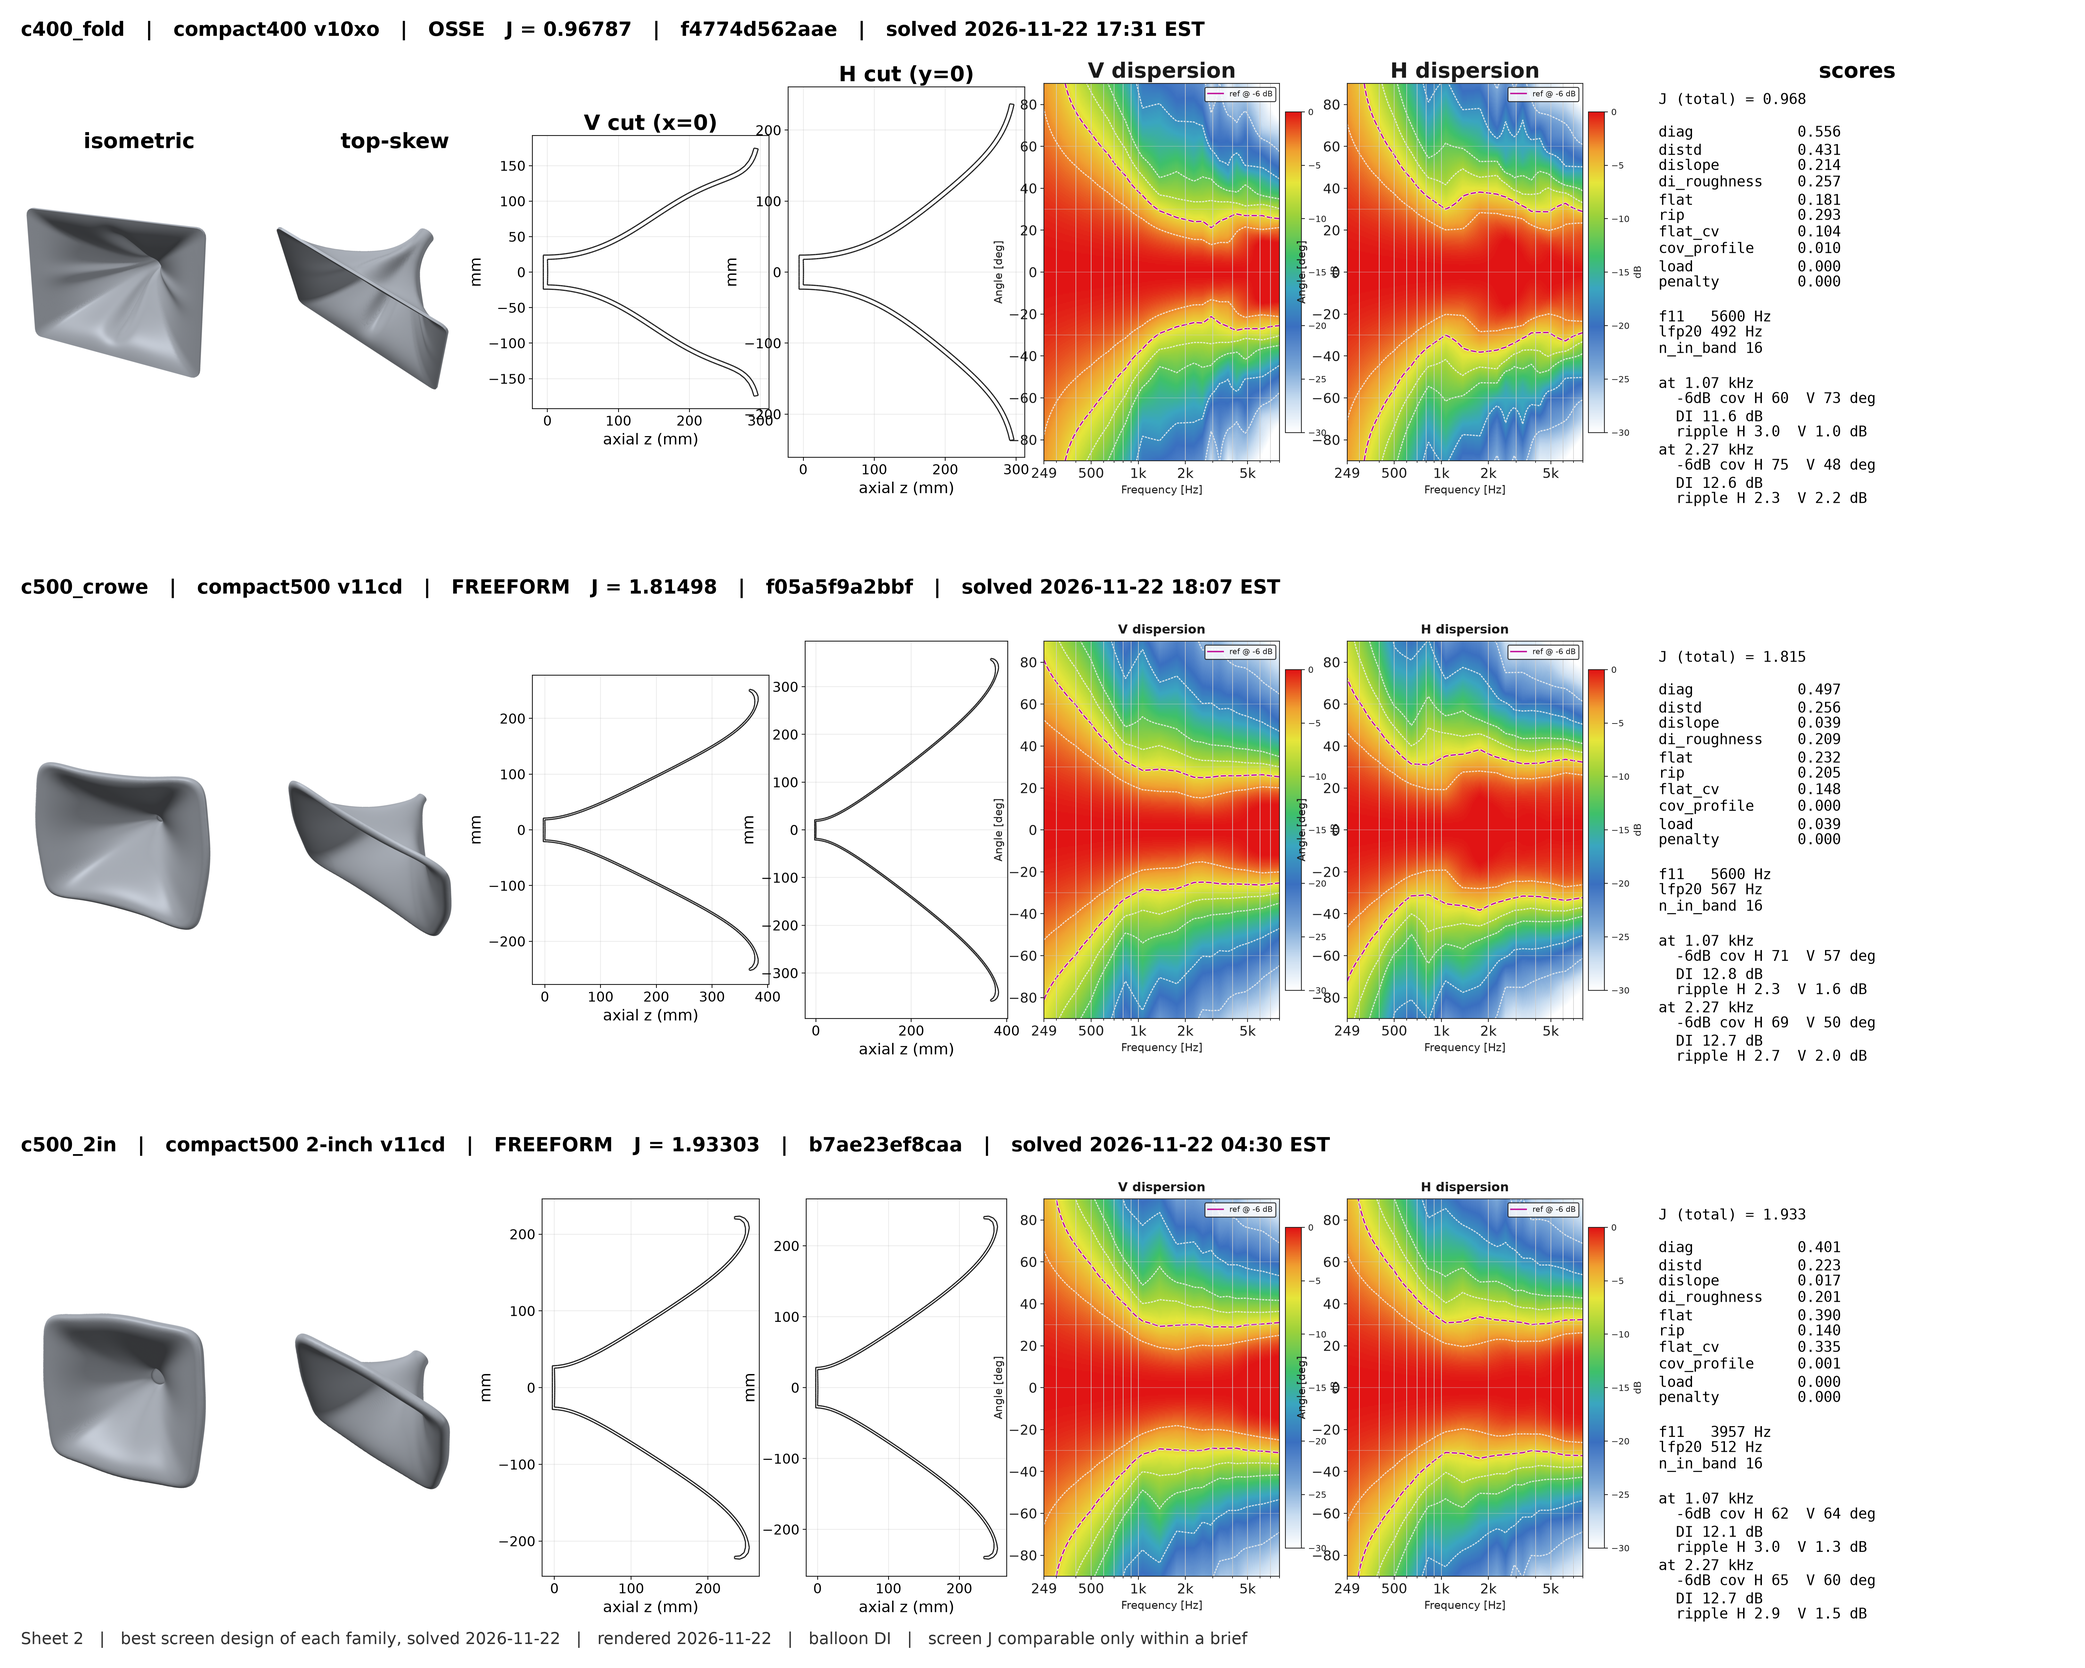
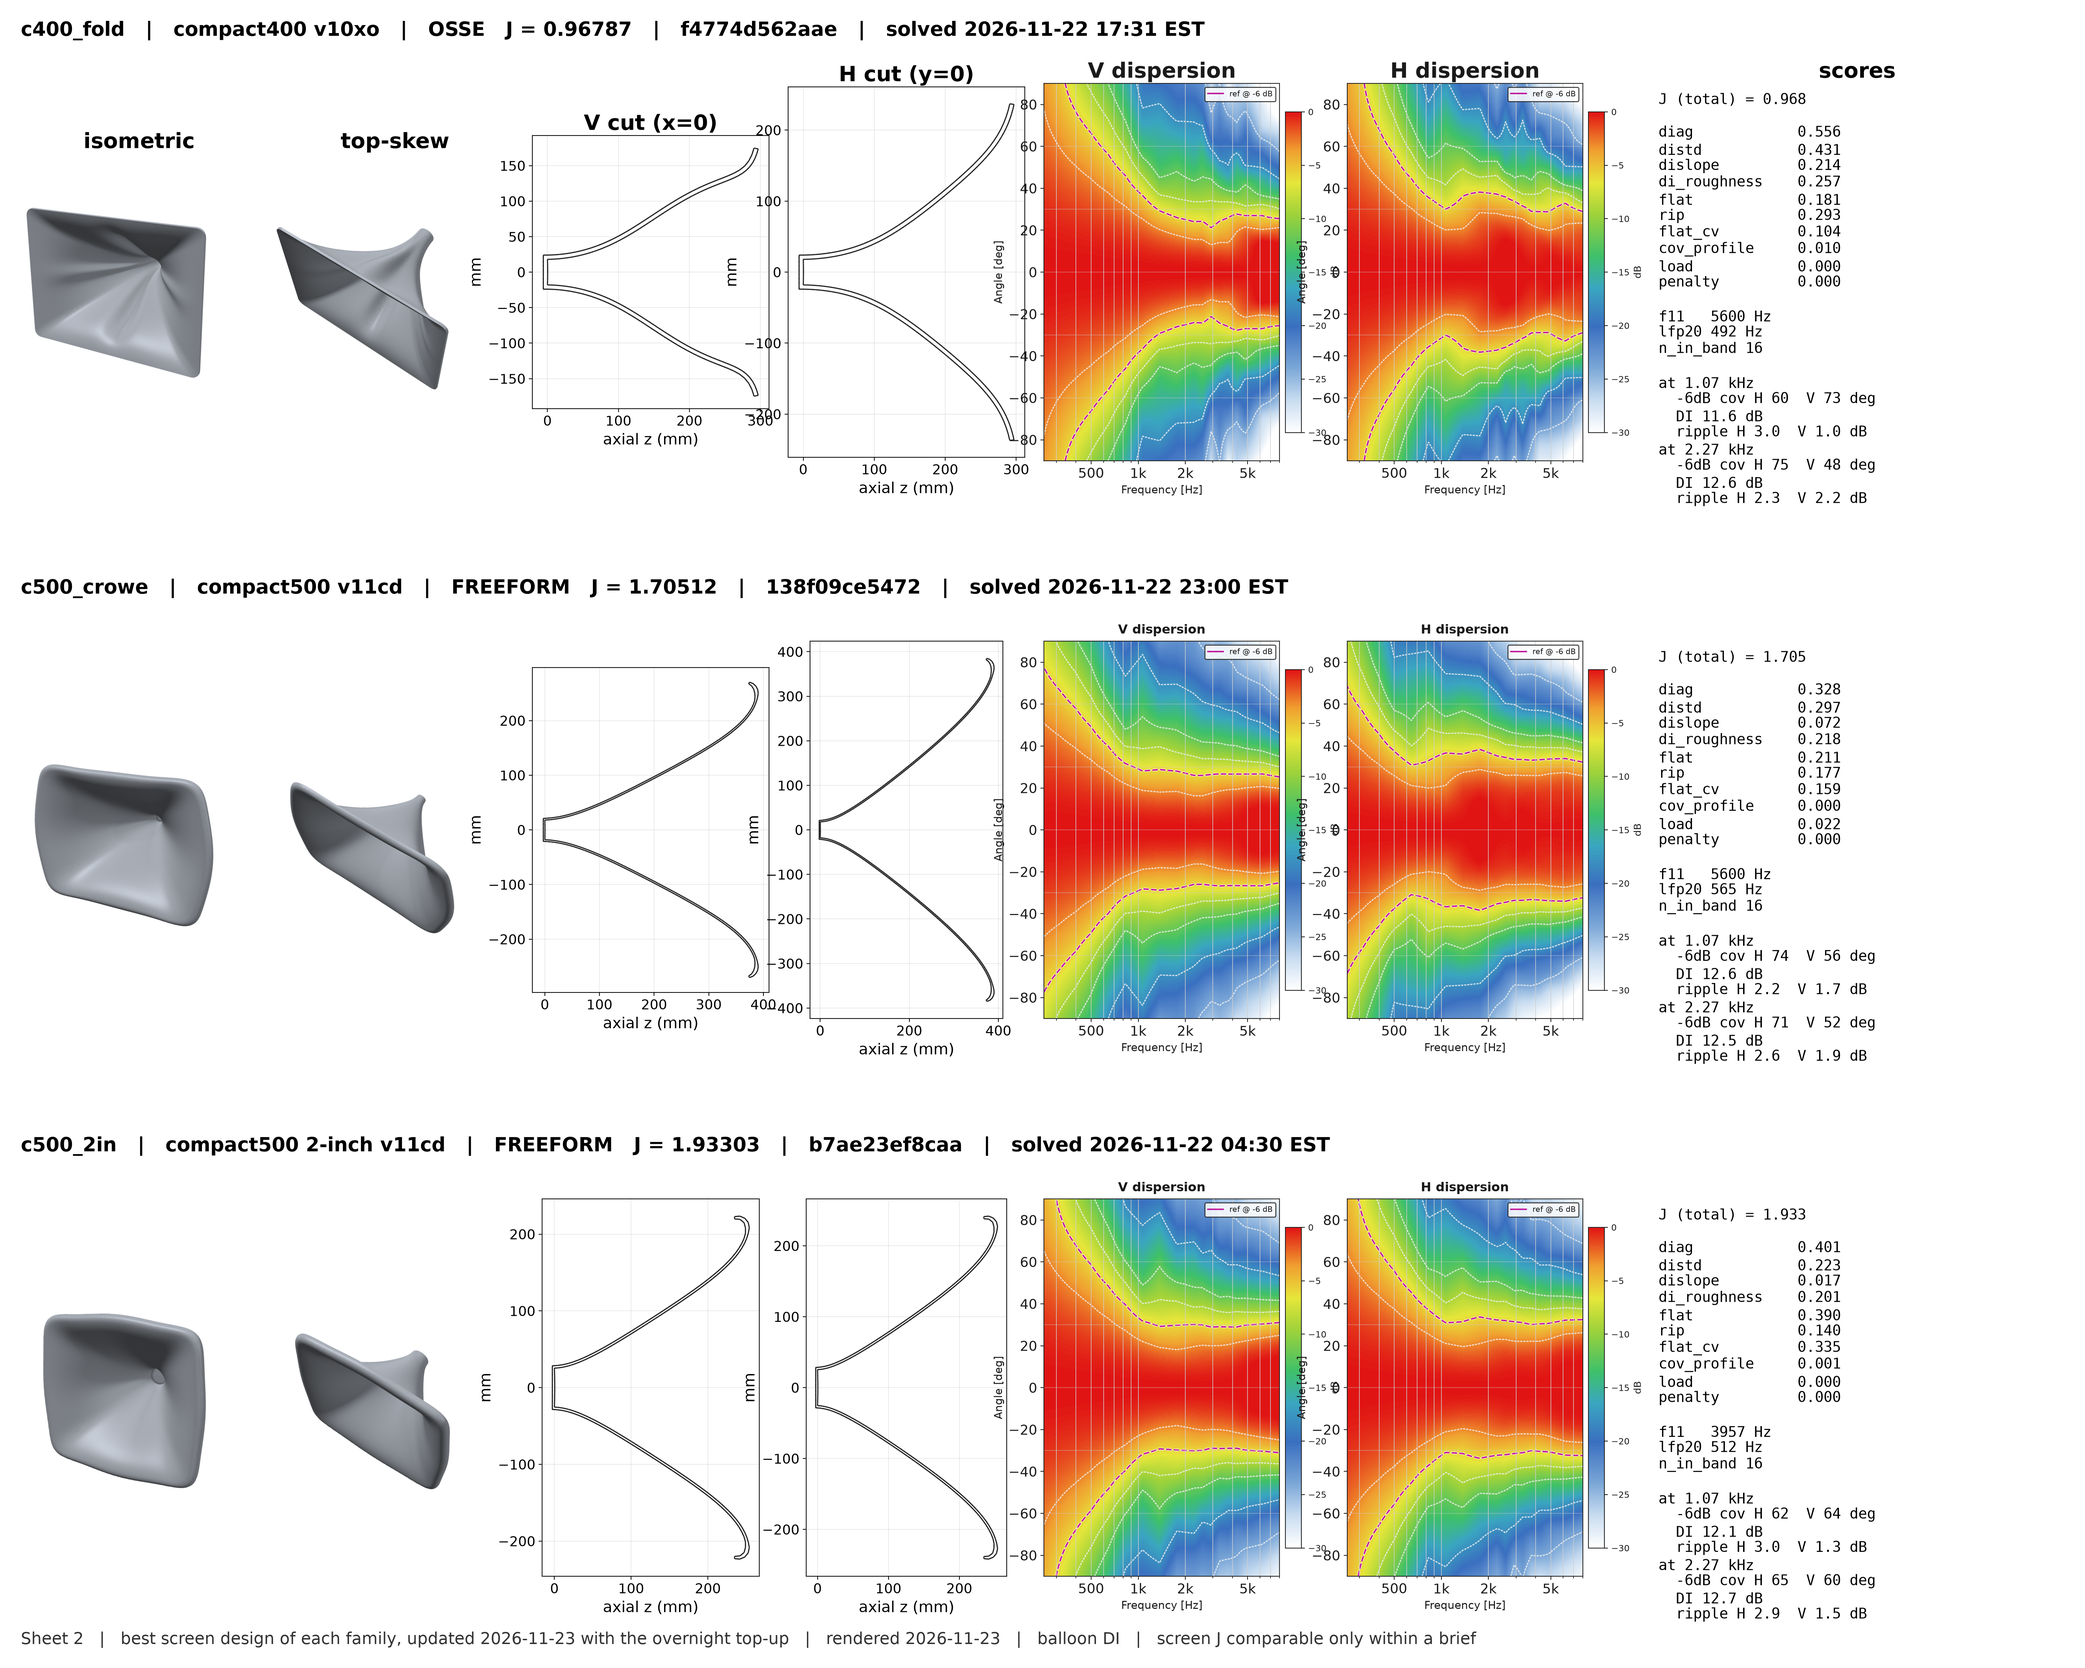
docs(renders): update 2026-11-22 best-horn sheets with the overnight top-up results
- compact500 Crowe 1.8150 -> 1.70512 (770x548x393), FAV 3.3848 -> 3.30792 (720x608x418), v11 Fold 3.6172 -> 3.42866 (522x445x423); other five unchanged. All screen-grid.

- re-rendered the three 200 dpi sheets (iso, top-skew, V/H cuts, V/H dispersion, scores), fixed the label mapping for the new design hashes, updated the table and README, CONTINUITY/ISSUES/ACTIVE_STATE note the top-up night.

diff --git a/docs/renders/2026-11-22-best-horns/index.html b/docs/renders/2026-11-22-best-horns/index.html
@@ -38,13 +38,13 @@ footer{padding:26px 0;font-size:.8rem;color:var(--muted)}
 <header class="mast"><div class="wrap">
 <nav class="nav"><span>Hornlab / 2026-11-22</span><a href="#sheets">Sheets ↓</a></nav>
 <div class="intro"><div><div class="kicker">Eight family leaders · 22 November 2026</div><h1>Eight horns,<br>one day.</h1></div>
-<div><p>The best screen design of each horn family solved on 22 November 2026, rendered at 200 dpi with V and H section cuts and V/H isobar maps. J is comparable only within a brief.</p><span class="status">Screen grid · open-envelope round included</span></div></div>
+<div><p>The best screen design of each horn family solved on 22 November 2026, re-rendered on 23 November 2026 after the overnight data top-up, at 200 dpi with V and H section cuts and V/H isobar maps. J is comparable only within a brief.</p><span class="status">Screen grid · open envelope · updated 2026-11-23</span></div></div>
 </div></header>
 <main>
 <section class="section wrap" id="sheets"><div class="section-title"><div><div class="eyebrow">01 / Contact sheets</div><h2>Three sheets, eight horns.</h2></div><p>Each row: isometric, top-skew, V cut (x=0), H cut (y=0), V dispersion, H dispersion and the score ledger. Click any sheet for the full 6000 px image.</p></div>
 <figure><a href="best22_01.png"><img src="best22_01.png" alt="Sheet 1: home v10 fold, twinray and morph — isometric, top-skew, V and H section cuts, V and H dispersion, scores"></a><figcaption>Sheet 1 — home v10: Fold (1.193), Morph (1.397), TwinRay (1.736).</figcaption></figure>
-<figure><a href="best22_02.png"><img src="best22_02.png" alt="Sheet 2: compact400 Fold, compact500 Crowe and compact500 2-inch — geometry, section cuts, dispersion, scores"></a><figcaption>Sheet 2 — compact400 Fold (0.968) and the two compact500 lanes: Crowe (1.815) and 2-inch (1.933).</figcaption></figure>
-<figure><a href="best22_03.png"><img src="best22_03.png" alt="Sheet 3: FAV v11 and v11 Fold — geometry, section cuts, dispersion, scores"></a><figcaption>Sheet 3 — v11 home: FAV (3.385) and Fold (3.617).</figcaption></figure>
+<figure><a href="best22_02.png"><img src="best22_02.png" alt="Sheet 2: compact400 Fold, compact500 Crowe and compact500 2-inch — geometry, section cuts, dispersion, scores"></a><figcaption>Sheet 2 — compact400 Fold (0.968) and the two compact500 lanes: Crowe (1.705) and 2-inch (1.933).</figcaption></figure>
+<figure><a href="best22_03.png"><img src="best22_03.png" alt="Sheet 3: FAV v11 and v11 Fold — geometry, section cuts, dispersion, scores"></a><figcaption>Sheet 3 — v11 home: FAV (3.308) and Fold (3.429).</figcaption></figure>
 </section>
 <section class="section wrap" id="table"><div class="section-title"><div><div class="eyebrow">02 / The eight</div><h2>What is on the sheets.</h2></div><p>J is the stored screen objective of each run. Size is the outer shell (quarter-mesh bounding box doubled).</p></div>
 <table>
@@ -54,10 +54,10 @@ footer{padding:26px 0;font-size:.8rem;color:var(--muted)}
 <tr><td>Home Morph</td><td>home v10</td><td class="num">1.39730</td><td class="num">549 × 413 × 406</td><td><code>adf7e74388f0</code></td><td>—</td></tr>
 <tr><td>Home TwinRay</td><td>home v10</td><td class="num">1.73558</td><td class="num">589 × 430 × 449</td><td><code>026edbad538c</code></td><td>—</td></tr>
 <tr><td>Compact400 Fold</td><td>compact400 v10xo</td><td class="num">0.96787</td><td class="num">474 × 350 × 303</td><td><code>f4774d562aae</code></td><td>Mouth 474 mm wide — outside the old 400 mm cube.</td></tr>
-<tr><td>Compact500 Crowe</td><td>compact500 v11cd</td><td class="num">1.81498</td><td class="num">719 × 538 × 386</td><td><code>f05a5f9a2bbf</code></td><td>719 mm wide, outside the old 500 cube; loading term collapsed 0.46 → 0.03, diagonal/off-axis is now the limit.</td></tr>
+<tr><td>Compact500 Crowe</td><td>compact500 v11cd</td><td class="num">1.70512</td><td class="num">770 × 548 × 393</td><td><code>138f09ce5472</code></td><td>770 mm wide, outside the old 500 cube; loading term collapsed 0.46 → 0.03, diagonal/off-axis is now the limit. Improved overnight (1.815 → 1.705).</td></tr>
 <tr><td>Compact500 2-inch</td><td>compact500 2-inch v11cd</td><td class="num">1.93303</td><td class="num">484 × 447 × 257</td><td><code>b7ae23ef8caa</code></td><td>Separate 2-inch driver identity.</td></tr>
-<tr><td>FAV v11</td><td>v11 home</td><td class="num">3.38481</td><td class="num">730 × 577 × 403</td><td><code>02f00c0e5542</code></td><td>730 mm wide, outside the old 600×480 box.</td></tr>
-<tr><td>v11 Fold</td><td>v11 home</td><td class="num">3.61720</td><td class="num">564 × 411 × 370</td><td><code>f5b191713dac</code></td><td>—</td></tr>
+<tr><td>FAV v11</td><td>v11 home</td><td class="num">3.30792</td><td class="num">720 × 608 × 418</td><td><code>5987a94e99c0</code></td><td>720 mm wide, outside the old 600×480 box. Improved overnight (3.385 → 3.308).</td></tr>
+<tr><td>v11 Fold</td><td>v11 home</td><td class="num">3.42866</td><td class="num">522 × 445 × 423</td><td><code>606abb301970</code></td><td>Improved overnight (3.617 → 3.429).</td></tr>
 </tbody></table>
 </section>
 <section class="section notes"><div class="wrap note-grid">
@@ -71,5 +71,5 @@ footer{padding:26px 0;font-size:.8rem;color:var(--muted)}
 <div class="links"><a href="https://github.com/llevaachingada/Hornfab">Repository</a><a href="https://github.com/llevaachingada/Hornfab/blob/main/docs/renders/2026-11-22-best-horns/README.md">README</a><a href="https://llevaachingada.github.io/Hornfab/">All pages</a></div>
 </div></div></section>
 </main>
-<footer class="wrap">Hornlab · best horns solved 2026-11-22 · sources: runs are local (gitignored); scripts and target list sit beside this page.</footer>
+<footer class="wrap">Hornlab · best horns solved 2026-11-22 · updated 2026-11-23 after the overnight top-up · sources: runs are local (gitignored); scripts and target list sit beside this page.</footer>
 </body></html>

diff --git a/docs/renders/2026-11-22-best-horns/compose_best.py b/docs/renders/2026-11-22-best-horns/compose_best.py
@@ -40,7 +40,7 @@ WINDOW = sys.argv[4]
 R = Path("scratch/best22/r")
 OUT = Path("scratch/best22/sheets")
 OUT.mkdir(parents=True, exist_ok=True)
-RENDERED = "2026-11-22"
+RENDERED = "2026-11-23"
 
 LABELS = {
     "6d9e8c874827": "home_fold",
@@ -48,9 +48,12 @@ LABELS = {
     "adf7e74388f0": "home_morph",
     "f4774d562aae": "c400_fold",
     "f05a5f9a2bbf": "c500_crowe",
+    "138f09ce5472": "c500_crowe",
     "b7ae23ef8caa": "c500_2in",
     "02f00c0e5542": "fav_v11",
+    "5987a94e99c0": "fav_v11",
     "f5b191713dac": "v11_fold",
+    "606abb301970": "v11_fold",
 }
 BRIEFS = {
     "6d9e8c874827": "home v10",
@@ -58,9 +61,12 @@ BRIEFS = {
     "adf7e74388f0": "home v10",
     "f4774d562aae": "compact400 v10xo",
     "f05a5f9a2bbf": "compact500 v11cd",
+    "138f09ce5472": "compact500 v11cd",
     "b7ae23ef8caa": "compact500 2-inch v11cd",
     "02f00c0e5542": "v11 home",
+    "5987a94e99c0": "v11 home",
     "f5b191713dac": "v11 home",
+    "606abb301970": "v11 home",
 }
 
 rows = [l.split() for l in TARGETS.read_text().splitlines() if l.strip()]

diff --git a/docs/renders/2026-11-22-best-horns/README.md b/docs/renders/2026-11-22-best-horns/README.md
@@ -1,7 +1,7 @@
 # Best horns solved 2026-11-22
 
-The best screen design of each horn family solved on 2026-11-22, rendered at 200 dpi (6000 px wide)
-on three contact sheets. Each row: isometric, top-skew, V cut (x=0), H cut (y=0), V dispersion,
+The best screen design of each horn family solved on 2026-11-22, re-rendered on 2026-11-23 after the
+overnight data top-up, at 200 dpi (6000 px wide) on three contact sheets. Each row: isometric, top-skew, V cut (x=0), H cut (y=0), V dispersion,
 H dispersion and the score ledger.
 
 Open `index.html` for the gallery (served by GitHub Pages).
@@ -23,14 +23,21 @@ verify-grid confirmed.
 | design | run | hash | J | outer W×H×D mm |
 |---|---|---|---|---|
 | compact400 Fold | `20261122T221847Z-screen-5857d8` | `f4774d562aae` | 0.96787 | 474×350×303 |
-| compact500 Crowe | `20261122T223153Z-screen-98b41d` | `f05a5f9a2bbf` | 1.81498 | 719×538×386 |
+| compact500 Crowe | `20261122T223153Z-screen-98b41d` | `138f09ce5472` | 1.70512 | 770×548×393 |
 | compact500 2-inch | `20261122T092931Z-screen-6edb3a` | `b7ae23ef8caa` | 1.93303 | 484×447×257 |
 
 ### `best22_03.png` — v11 home
 | design | run | hash | J | outer W×H×D mm |
 |---|---|---|---|---|
-| FAV v11 | `20261122T232104Z-screen-2cc59b` | `02f00c0e5542` | 3.38481 | 730×577×403 |
-| v11 Fold | `20261122T162831Z-screen-8484dd` | `f5b191713dac` | 3.61720 | 564×411×370 |
+| FAV v11 | `20261122T232104Z-screen-2cc59b` | `5987a94e99c0` | 3.30792 | 720×608×418 |
+| v11 Fold | `20261123T001107Z-screen-c88c3d` | `606abb301970` | 3.42866 | 522×445×423 |
+
+## Overnight update (2026-11-23)
+
+The `bo_data_topup_2026-11-22` night resumed these run dirs in place to grow each cohort to BO
+training size. Three bests improved and are the designs on the sheets now: compact500 Crowe
+1.815 -> **1.705**, FAV 3.385 -> **3.308**, v11 Fold 3.617 -> **3.429**. The other five are unchanged.
+All J remain screen-grid.
 
 ## Read this correctly
 

diff --git a/docs/CONTINUITY.md b/docs/CONTINUITY.md
@@ -1,5 +1,11 @@
 # CONTINUITY
 
+## 2026-11-23 - Overnight BO data top-up and updated horn sheets
+
+- **`bo_data_topup_2026-11-22`** (other lane, 22:25-00:19, 6/6) resumed the round-3 open-envelope run dirs in place to grow each cohort to BO training size while continuing CMA (dual use). Every job was stopped by the pin watchdog after 30-40 rows: `morph_corner_mm` low on c400a, `L_mm` low on c400b, and similar pins later.
+- **Three screen bests improved:** compact500 Crowe 1.8150 -> **1.70512** (770x548x393 mm, hash `138f09ce5472`), FAV 3.3848 -> **3.30792** (720x608x418, `5987a94e99c0`), v11 Fold 3.6172 -> **3.42866** (522x445x423, `606abb301970`). The other five family leaders are unchanged (home Fold 1.19315, Morph 1.39730, TwinRay 1.73558, compact400 0.96787, 2-inch 1.93303). All J are screen-grid; none is verify-grid confirmed.
+- **Gallery updated:** `docs/renders/2026-11-22-best-horns` re-rendered on 2026-11-23 (three 6000 px sheets, 200 dpi) with the new bests, table and README corrected, Pages republished.
+
 ## 2026-11-22 - Advisor 12-hour queue, common-grid verify, open-envelope decision, renders
 
 - **Queue 1 `hornfab_12h_2026-11-22`** (02:42-04:32, 10 jobs). Every job stopped by the watchdog after 25-204 evals, 110 min total. Screen bests: TwinRay 2.5748 -> 1.7356 (stopped at the brief envelope, morph_height 480), Morph 1.5769 -> 1.3973 (stalled 204/219), compact400 Fold s2 1.1891 -> 1.0742 and s1 1.1501, home Fold k 1.3738 -> 1.3176 (q pinned high) and s 1.3087 (k pinned high), compact500 Crowe 2.9901 -> 2.8392, FAV 4.4527 -> 4.4305; v11 Fold no gain (morph_corner pinned low); 2-inch 1.8705 -> 1.9330 (64 % refusal at 25 attempts). The advisor's job-8 resume was replaced by the pre-staged bounded 2-inch follow-up (75c147 resumes at a 43 % refusal window and three pinned knobs).

diff --git a/docs/ISSUES.md b/docs/ISSUES.md
@@ -1,5 +1,12 @@
 # ISSUES
 
+## 2026-11-23 - Overnight top-up and updated sheets
+
+- DONE: `bo_data_topup_2026-11-22` 6/6; new accepted screen rows pool into the BO cohorts and continue the CMA search.
+- CHANGED: three screen bests improved overnight — compact500 Crowe 1.70512, FAV 3.30792, v11 Fold 3.42866. The 2026-11-22 gallery was re-rendered and republished.
+- OPEN: none of the open-envelope winners is verify-grid confirmed.
+- OPEN (size): compact400 474 mm, compact500 770 mm and FAV 720 mm exceed their old build cubes; the size filter decision is still outstanding.
+
 ## 2026-11-22 - Open-envelope search and 2026-11-22 horn renders
 
 - DONE: the brief size envelope is switchable off per brief (`envelope.enforce: false`, `sanity_max_mm` default 1200 mm). One helper (`config.effective_envelope_limits`) feeds the post-mesh gate, both pre-mesh estimators and `tools/shape_check.py`; the default is byte-identical. Focused tests 84 passed.

diff --git a/docs/ACTIVE_STATE.md b/docs/ACTIVE_STATE.md
@@ -32,6 +32,14 @@ git log --oneline -5; git status --porcelain
 
 ## State, at write time
 
+- **2026-11-23 09:05 EST (overnight top-up closed):** `bo_data_topup_2026-11-22` (other lane)
+  6/6; it resumed the round-3 open run dirs in place. New screen bests: compact500 Crowe
+  **1.70512** (770x548x393, `138f09ce5472`), FAV **3.30792** (720x608x418, `5987a94e99c0`),
+  v11 Fold **3.42866** (522x445x423, `606abb301970`); the other five leaders unchanged. The
+  `docs/renders/2026-11-22-best-horns` gallery was re-rendered on 2026-11-23 and republished.
+  None verify-grid confirmed. Lane free.
+
+
 - **2026-11-22 20:10 EST (round 3 closed, open envelope):** `hornfab_round3_2026-11-22` 7/7 with
   `envelope.enforce: false` (sanity 1200 mm). Screen bests: home Fold 1.3087 -> **1.1932** (k=3.36,
   past the old 2.81 cap; still inside the old 600x480 box), compact400 1.0243 -> **0.9679**
